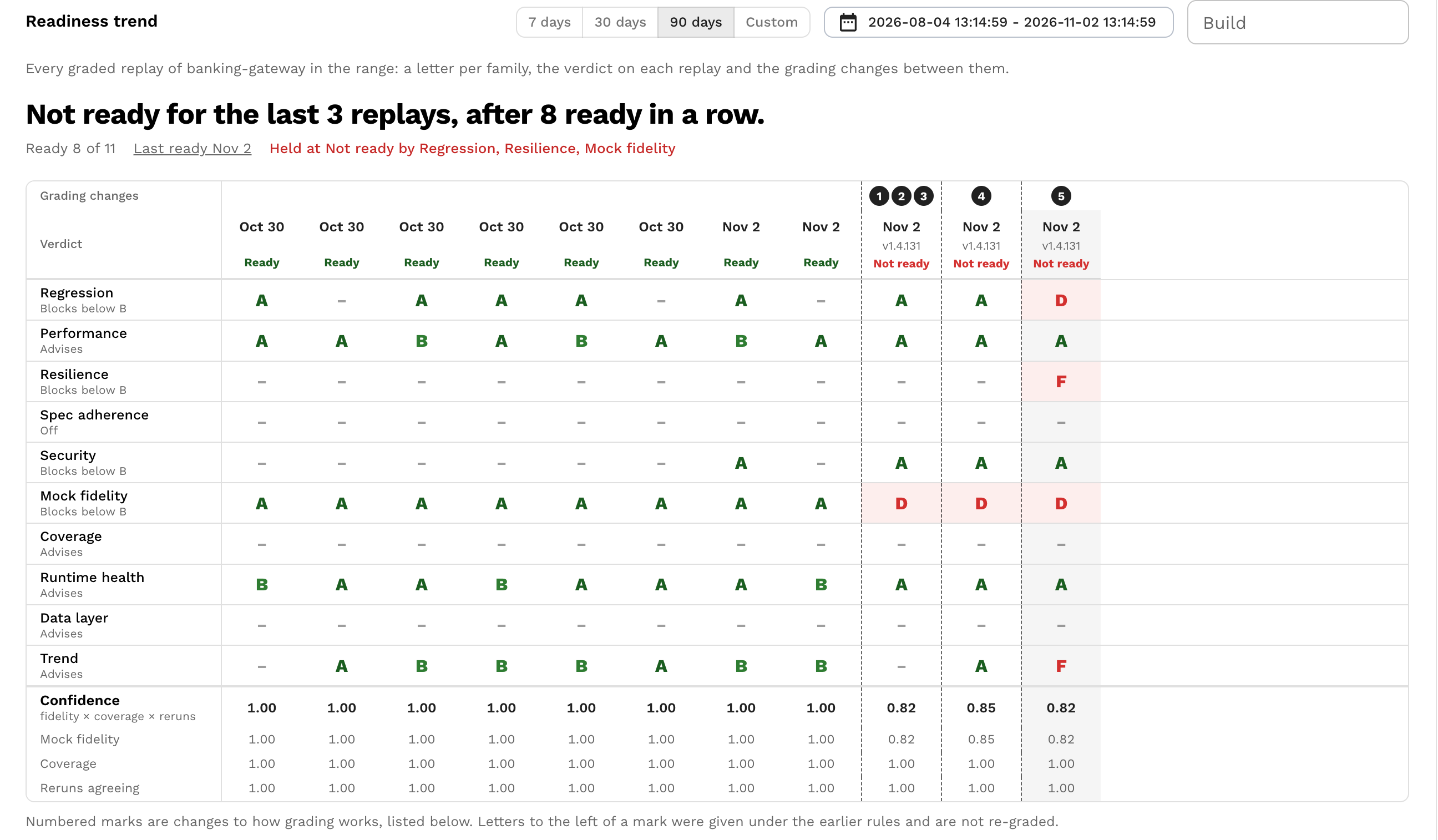
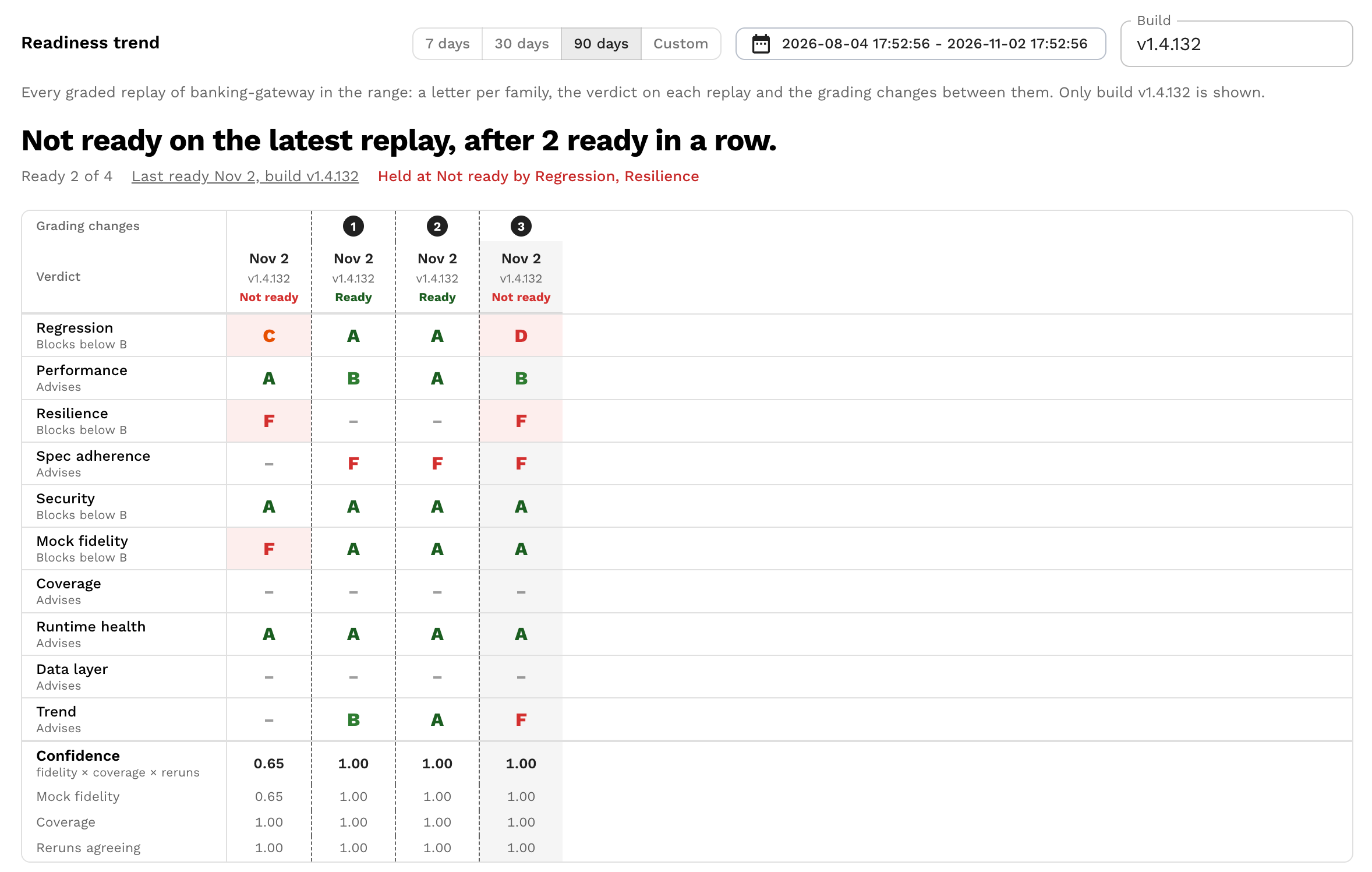
[S-13892] Refresh readiness docs and screenshots
Retake the screenshots on clean replays so they show a Ready report, a Not
ready report held by real findings, Spec adherence and Security findings, and a
one-build trend. Add shots to Core families, Spec adherence and Security.

Document the Runtime health measure, the stays wording on steps that keep the
letter, Unchanged at on the trend, chaos windows counting from load start, and
that pushing a snapshot with a spec attaches it to the service.

diff --git a/docs/guides/readiness/spec-adherence.md b/docs/guides/readiness/spec-adherence.md
@@ -18,6 +18,8 @@ The spec belongs to the service, not to a test config, because one test config c
 
 Open the service page and use the **Contract** section above Endpoints.
 
+![The Contract section of a service page: the attached OpenAPI document, where it came from, its hash, and the Download, Replace and Remove actions](./readiness-contract.png)
+
 An admin can attach an OpenAPI 3.x document (`.yaml`, `.yml` or `.json`, 3 MiB or smaller), replace it, download it or remove it.
 
 A document that is not valid OpenAPI 3.x is refused.
@@ -29,6 +31,8 @@ Replays analyzed from then on grade against the new document.
 Reports already graded keep their grade, and every stored version stays available under its hash.
 
 A spec pushed with a snapshot by proxymock shows as version 0 with the snapshot it came from.
+
+Pushing a snapshot with `proxymock cloud push snapshot --spec <file> --workload <service>` attaches the document to the service itself, so it replaces the current contract for every later replay of that service, not only for that snapshot.
 
 ## What counts as conforming
 
@@ -69,11 +73,15 @@ The family detail groups the open findings by who has to act.
 
 **Accepted** holds the findings an [acceptance](./acceptances.md) covers; accepting a finding counts its calls as conforming.
 
+![Spec adherence findings grouped under Fix in code and Update the spec, each with its check, its count and whether it is new since the previous report](./readiness-spec-findings.png)
+
 ## What the detail shows
 
 The headline reads like "97.5% conform; B at >= 97%. The floor is B at 97%."
 
 The detail sentence is "N of M replayed calls conform to `<spec>`: X hit an undocumented endpoint, Y returned an undocumented status, Z failed a schema check."
+
+![The Checks table: pairs checked, conforming, skipped and failing each check, with the change since the previous graded report](./readiness-spec-checks.png)
 
 A **Checks** table lists the pair counts behind the measure: pairs checked, conforming, skipped, with valid requests, with valid responses, on an undocumented endpoint, with an undocumented status, with a schema violation, the distinct undocumented endpoints and statuses, and the operations the spec documents against the ones the replay exercised.
 
@@ -88,6 +96,8 @@ Findings are marked "new since report X" or "also on report X" by comparing with
 The detail ends with up to two cumulative steps, each taking the highest-count open findings out of the measure.
 
 A step reads like "GET /v2/orders/\{id\} returns total as a string; the spec says number. That fails 184 calls; conformance 91% to 97%." followed by the letter it buys and whether it clears the floor.
+
+![One step under What moves the letter: adding the missing field takes conformance from 73.78% to 81.22% and the letter from F to D](./readiness-spec-moves.png)
 
 Accepted findings are already out of the measure and never appear in a step.
 

diff --git a/docs/guides/readiness/service-trend.md b/docs/guides/readiness/service-trend.md
@@ -32,13 +32,13 @@ One sentence sums up the range, for example "Not ready for the last 2 replays, a
 
 Beside it: how many replays were Ready, when the last Ready replay ran and at which build, and which families hold the latest report at Not ready.
 
-**What moved in this range** lists each family whose letter changed between two consecutive columns, with the measure before and after, when the final letter began its run and whether the move was lifted by an acceptance rather than a code fix.
+**What moved in this range** lists each family whose letter changed between two consecutive columns, with the measure before and after ("Unchanged at 98% pass" when the letter moved and the measure did not, as it does after a boundary change), when the final letter began its run and whether the move was lifted by an acceptance rather than a code fix.
 
 ## The grid
 
 Columns are replays, oldest on the left.
 
-![The readiness trend for a service: a headline sentence, then a grid of family letters per replay with a verdict on each column and numbered marks where grading changed](./readiness-trend.png)
+![The readiness trend filtered to one build: Not ready on the latest replay after two ready, a grid of family letters per replay with a verdict on each column, and numbered marks where grading changed](./readiness-trend.png)
 
 Rows are the grading changes (numbered marks), the verdict on each replay, a letter per family in scorecard order, then confidence and its three factors (mock fidelity, coverage, reruns agreeing).
 
@@ -52,7 +52,7 @@ A column stored before confidence and measures were kept shows letters only, wit
 
 Numbered marks are changes to how grading works, so letters to the left of a mark were given under the earlier rules and are not re-graded.
 
-![What moved in the range beside the numbered list of changes that affected grading: config, chaos rule and build changes](./readiness-trend-changes.png)
+![What moved in the range beside the numbered list of changes that affected grading: chaos rules removed, a role changed, chaos rules added](./readiness-trend-changes.png)
 
 Marks come from the reports and the acceptance ledger; nothing is typed in by hand.
 
@@ -69,6 +69,8 @@ Marks come from the reports and the acceptance ledger; nothing is typed in by ha
 A "Spec replaced" mark is reserved for the Spec adherence family and is not produced yet.
 
 ## Behind the letters
+
+![Charts under Behind the letters: Regression against its 98% floor and Performance against its 2000 ms floor across four replays](./readiness-trend-series.png)
 
 For each family whose letter moved in the range, a chart draws the measure under the letter against its floor: the pass rate, the match rate, the latency in milliseconds, the restarts.
 

diff --git a/docs/guides/readiness/security.md b/docs/guides/readiness/security.md
@@ -89,7 +89,7 @@ A changed probe between two consecutive reports shows as an "Auth probe" mark on
 
 The measure reads "0 open findings" or "7 open, worst high".
 
-![The Security detail for an A: zero open findings over the calls scanned, and the auth probe sending eight requests without the Authorization header and none answering 2xx](./readiness-security-detail.png)
+![The Security scan and checks for a D: seven open findings, worst high, over 1059 calls, with the token DLP class seen in responses](./readiness-security-detail.png)
 
 The detail sentence is "N open findings over M replayed HTTP calls: a critical, b high, c medium, d low." followed by the DLP classes seen in responses and one sentence about the probe:
 
@@ -98,11 +98,19 @@ The detail sentence is "N open findings over M replayed HTTP calls: a critical, 
 - "The auth probe did not run: `<error>`."
 - "The auth probe sent 12 requests to 12 endpoints with the Authorization header removed; 2 endpoints answered 2xx."
 
+![The same detail for a clean run: zero open findings, and the auth probe sending eight requests without the Authorization header with none answering 2xx](./readiness-security-probe-result.png)
+
 The detail page shows the open findings by severity, the worst open severity, the calls scanned inbound and outbound, the auth probe line with the statuses it treats as a refusal, the sensitive data classes with the rule that decided them, and a Checks table of the checks that found something, worst severity first.
 
 ## What moves the letter
 
+![Security findings grouped under Auth probe, Data exposure, Transport and Hardening, with a high finding for a token in a login response and low findings for missing headers](./readiness-security-findings.png)
+
 Up to two steps, worst severity first, each naming one finding: "`<finding>` Fixing or accepting it leaves the worst open severity at high; Security F to D."
+
+![One step under What moves the letter: removing the token from the login response leaves only low findings and takes the letter from D to B](./readiness-security-moves.png)
+
+A step that leaves another finding of the same severity open ends "Security stays D" and is marked Stays D, so you can see that it needs the next step too.
 
 When two findings share the worst severity, the first step leaves the letter where it is and the second moves it.
 

diff --git a/docs/guides/readiness/resilience.md b/docs/guides/readiness/resilience.md
@@ -50,7 +50,7 @@ A value at or below zero takes the default.
 |---|---|
 | "The test config has no chaos rules; nothing was injected to judge resilience." | No rules. The detail offers Edit chaos rules, which opens the Traffic tab of the test config. |
 | "Nothing was mocked in this replay, so no chaos rule could fire." | Rules on a generator-only replay. |
-| "The test config has N chaos rules but none fired; no mocked call matched them." | Nothing matched the rules' scope. |
+| "The test config has N chaos rules but none fired; no mocked call matched them." | Nothing matched the rules' scope, or a rule's window opened after the load finished. A window counts from when load starts; see [bounded windows](/concepts/chaos#bounded-windows). |
 | "N faults injected but none fell inside an inbound request to judge." | No fault could be paired. |
 
 ## Findings and check ids
@@ -82,7 +82,7 @@ While any endpoint is not recovered the letter is at most D, and the threshold s
 
 The measure reads "92.31% of faults handled".
 
-![The Resilience detail for an F: how the grade was computed, what moves the letter, and the faults injected with what the service did with them](./readiness-resilience-detail.png)
+![The Resilience detail for an F: faults handled, retry and latency amplification, recovery, the bounds applied, and what each chaos rule matched, fired and faulted](./readiness-resilience-detail.png)
 
 The detail sentence is "N faults from M chaos rules fell inside K requests; H were handled (X%): a answered 5xx or not at all, b retried more than 3 times, c ran over 2x the injected delay." followed by one of:
 
@@ -97,7 +97,9 @@ A rule whose matched count the responder did not report shows "not reported".
 
 ## What moves the letter
 
-Up to two steps, the recovery cap first and then the biggest buckets: "`<finding>` Fixing or accepting it brings Resilience to 90% of faults handled; D to C."
+Up to two steps, the recovery cap first and then the biggest buckets: "`<finding>` Fixing or accepting it brings Resilience to 90% of faults handled; letter D to C."
+
+A step that raises the measure without reaching the next rung ends "letter stays F" and is marked Stays F, so you can see that it needs the next step too.
 
 The Mocks action opens the Mocked Responses tab, where the perturbed mocked calls are listed.
 

diff --git a/docs/guides/readiness/core-families.md b/docs/guides/readiness/core-families.md
@@ -32,6 +32,8 @@ The detail names the assertion type, the endpoint and the field, for example "..
 
 **Detail on the report.** "N of M assertions failed." with the pass rate as the measure, for example "99.7% pass".
 
+![The Regression detail for a D: how the grade was computed, what it takes to reach the floor, and one finding per failed assertion type and endpoint with an Accept button](./readiness-regression-detail.png)
+
 Accepting a finding counts its assertions as passed; the denominator does not change.
 
 The Requests action opens the Accuracy tab of the report.
@@ -106,6 +108,8 @@ The family grades n/a with "The replay touched no database." when neither exists
 
 The Statements action opens the Mocked Responses tab.
 
+![The Data layer detail for an A: 99.97% of database calls matched a mock, with the one statement that did not listed as a finding](./readiness-data-layer-detail.png)
+
 ## Runtime health
 
 **Measures** what Kubernetes said about the system under test while the replay ran.
@@ -130,7 +134,11 @@ The family grades n/a with "The replay did not run in a Kubernetes cluster." for
 
 **Findings.** One per kind of warning, per service rather than per pod since pod names change on every rollout: `restart`, `crash_loop`, `oom_kill` and `readiness_wait`, each counted.
 
-**Detail on the report.** "N restarts, N crash loops, N OOM kills, N readiness probe failures." with the measure "N restarts".
+**Detail on the report.** "2 restarts, 0 crash loops, 1 OOM kill, 0 readiness probe failures."
+
+The measure names what set the letter: "never became ready", "1 OOM kill", "2 restarts" (restarts and crash loops together) or "3 readiness waits", and "0 restarts" when nothing happened.
+
+The trend chart for this family always plots restarts and crash loops.
 
 Accepting a finding takes that many events out of the count.
 

diff --git a/docs/guides/readiness/index.md b/docs/guides/readiness/index.md
@@ -22,7 +22,7 @@ Local proxymock replays and replays that never reach the Speedscale cloud are no
 
 ## Where readiness appears
 
-![The Readiness tab of a report: a Not ready verdict, the path back to ready, and a tile for each family split into blocking and advisory](./readiness-report.png)
+![The Readiness tab of a report: a Not ready verdict held by Regression and Resilience, the path back to ready, and a tile for each family split into blocking and advisory](./readiness-report.png)
 
 - **The Readiness tab of a replay report.** Right after Overview. The verdict, the score and confidence, a tile per family, "What gets this build to ready", the ledger of how each grade was earned and what fed the grades. See [How a report is graded](./how-grading-works.md).
 - **The Readiness column on the reports grid.** The verdict word and score for each graded report. Hidden by default; switch it on in the column picker. The list cannot be sorted or filtered on it yet.

diff --git a/docs/guides/readiness/how-grading-works.md b/docs/guides/readiness/how-grading-works.md
@@ -23,6 +23,8 @@ The verdict word sits at the top of the Readiness tab, in the Readiness column o
 
 Under the verdict word, the summary sentence says which report the Trend family compared with, for example "Compared with report 8f3c... of Oct 24, 2026 14:02 UTC." or "No previous graded report in the trend window to compare with."
 
+![A Ready report: every blocking family at or above its floor, with an advisory family below its floor listed under Worth knowing before you ship](./readiness-report-ready.png)
+
 A Not ready report lists "What gets this build to ready": one line per blocking family with its current letter, its floor and the measure it needs to reach.
 
 Advisory families never appear there; the ones below their floor are listed under "Worth knowing before you ship".

diff --git a/docs/guides/readiness/test-config-settings.md b/docs/guides/readiness/test-config-settings.md
@@ -82,7 +82,7 @@ Changed bounds apply from the next replay; the preview cannot re-pair the calls 
 
 The right-hand panel re-grades the last five reports that ran with this config using the draft on the left and shows the saved grade beside the draft's: the verdict, the score and every letter that changes.
 
-![The preview panel: recent reports with their family letters, the saved grade and the grade under the draft](./readiness-preview.png)
+![The preview panel with a draft that makes Spec adherence block: two Ready reports turn Not ready under the draft, highlighted, and the summary counts them](./readiness-preview.png)
 
 Nothing is written until you save.
 
